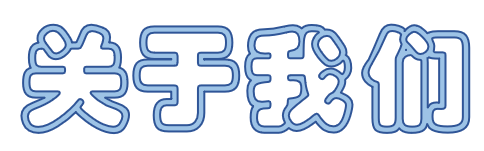
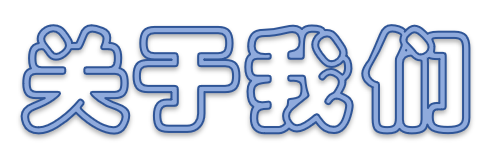
change color

Changed region(s): [[0.031, 0.1589, 0.9917, 0.9272]]

diff --git a/src/page/Recent.js b/src/page/Recent.js
@@ -1,7 +1,7 @@
 import React from "react";
 import { Link } from 'react-router-dom';
 import {Box,Stack,HStack,Text,List,ListItem,ListIcon, Highlight } from '@chakra-ui/react'
-import { AiFillTool,AiFillTags,AiFillCarryOut} from "react-icons/ai";
+import { AiFillTool,AiFillTags,AiFillCarryOut,AiFillBulb} from "react-icons/ai";
 // import Requirement from './Requirement'
 
 
@@ -21,14 +21,14 @@ import { AiFillTool,AiFillTags,AiFillCarryOut} from "react-icons/ai";
               <img src='rainbow.png' alt='rainbow'/>
             </Box> */}
           </HStack>
-          <Box  w='80%' h='max-content' p="5%"  bg='rgba(255,255,255,0.3)'  borderRadius='xl' boxShadow='lg'>
+          <Box  w='80%' h='max-content' p="5%"  bg='rgba(255,255,255,0.5)'  borderRadius='xl' boxShadow='lg'>
              {/*预留*/}
              <List class="class-bo" spacing={2}  textAlign='left' position='relative'  fontSize='2xl' lineHeight='taller' >
                   <ListItem>
-                    <ListIcon as={AiFillTool} color='blue.500' />
+                    <ListIcon as={AiFillTool} color='purple.600' />
                       <Highlight
                         query='VSC extension'
-                        styles={{ px: '2', py: '1', rounded: 'full', bg: 'rgba(164,203,236,0.5)' ,color:'black'}}>
+                        styles={{ px: '2', py: '1', rounded: 'full', bg: 'rgb(171, 130 ,255,0.2)' ,color:'black'}}>
                         VSC extension
                       </Highlight>
                       <Text  fontSize='initial' w='80%' ml='5%' fontFamily='-moz-initial' lineHeight='taller' style={{textIndent:"2em"}}>
@@ -38,10 +38,10 @@ import { AiFillTool,AiFillTags,AiFillCarryOut} from "react-icons/ai";
                   </ListItem>
                   
                   <ListItem>
-                    <ListIcon as={AiFillCarryOut} color='blue.500' />
+                    <ListIcon as={AiFillCarryOut} color='purple.600' />
                       <Highlight
                         query='服务稳定性提升'
-                        styles={{ px: '2', py: '1', rounded: 'full', bg: 'rgba(164,203,236,0.5)' ,color:'black'}}>
+                        styles={{ px: '2', py: '1', rounded: 'full', bg: 'rgb(171, 130 ,255,0.2)' ,color:'black'}}>
                         服务稳定性提升
                       </Highlight>
                       <Text  fontSize='initial' w='80%'ml='5%' fontFamily='-moz-initial' lineHeight='taller' style={{textIndent:"2em"}}>
@@ -52,10 +52,10 @@ import { AiFillTool,AiFillTags,AiFillCarryOut} from "react-icons/ai";
                   </ListItem>
                   
                   <ListItem>
-                    <ListIcon as={AiFillTags} color='blue.500' />
+                    <ListIcon as={AiFillTags} color='purple.600' />
                       <Highlight
                         query='新前端'
-                        styles={{ px: '2', py: '1', rounded: 'full', bg: 'rgba(164,203,236,0.5)' ,color:'black'}}>
+                        styles={{ px: '2', py: '1', rounded: 'full', bg: 'rgb(171, 130 ,255,0.2)' ,color:'black'}}>
                         新前端
                       </Highlight>
                       <Text  fontSize='initial' w='80%'ml='5%' fontFamily='-moz-initial' lineHeight='taller' style={{textIndent:"2em"}}>
@@ -66,10 +66,10 @@ import { AiFillTool,AiFillTags,AiFillCarryOut} from "react-icons/ai";
                   </ListItem>
                   
                   <ListItem>
-                  <ListIcon as={AiFillTags} color='blue.500' />
+                  <ListIcon as={AiFillBulb} color='purple.600' />
                       <Highlight
                         query='服务端静态化重构'
-                        styles={{ px: '2', py: '1', rounded: 'full', bg: 'rgba(164,203,236,0.5)' ,color:'black'}}>
+                        styles={{ px: '2', py: '1', rounded: 'full', bg: 'rgb(171, 130 ,255,0.2)' ,color:'black'}}>
                         服务端静态化重构
                       </Highlight>
                       <Text  fontSize='initial' w='80%' ml='5%' fontFamily='-moz-initial' lineHeight='taller' style={{textIndent:"2em"}}>

diff --git a/src/page/Requirement.js b/src/page/Requirement.js
@@ -13,7 +13,7 @@ export default function Requirement(){
                     <img src='requirement.png' alt='requirement heading'/>
                 </Box>
                 <Box w='80%' mr='15%' >
-                    <Tabs  isFitted h='full' size='lg' bg='rgb(255,255,255,0.3)'  borderRadius='2xl' boxShadow='lg'>
+                    <Tabs  isFitted h='full' size='lg' bg='rgb(255,255,255,0.5)'  borderRadius='2xl' boxShadow='lg'>
                         <TabList>
                             <Tab>产品</Tab>
                             <Tab>设计</Tab>
@@ -25,7 +25,7 @@ export default function Requirement(){
                             <TabPanel>
                                 <HStack h='700px' pt='-5%'>    
                                     <Text  fontSize='l' w='40%'h='700px'  p='5%' fontFamily='-moz-initial' textAlign='justify' lineHeight='taller' >
-                                        <Heading fontSize='3xl' textAlign='left' pb='10' color='blue.500'>岗位描述</Heading>
+                                        <Heading fontSize='3xl' textAlign='left' pb='10' color='rgb(144,146,220)'>岗位描述</Heading>
                                         <ol>
                                             <li>负责 Matrix 团队已有产品的调研、分析和优化。</li>
                                             <li>负责 Matrix 团队新产品或新模块的规划，挖掘用户需求，产出需求池、功能结构图、流程图、低保真原型图、PRD 和验收文档。</li>
@@ -38,19 +38,18 @@ export default function Requirement(){
                                     </Center>
                                     
                                     <Text  fontSize='l' w='60%'h='700px'  p='5%' fontFamily='-moz-initial' textAlign='justify' lineHeight='taller' >
-                                        <Heading fontSize='3xl' textAlign='left' pb='10' color='blue.500'>招新要求</Heading>
+                                        <Heading fontSize='3xl' textAlign='left' pb='10' color='rgb(144,146,220)'>招新要求</Heading>
                                         <ol>
-                                            <li>仅限20、21级同学。</li>
                                             <li>了解互联网产品经理的职责和定位，对 Matrix 的主要产品、功能和定位有了解和自己的看法。</li>
                                             <li>具备敏捷的洞察和逻辑思维能力，有把思考变为现实以满足用户需求的勇气和能力。</li>
                                             <li>工作严谨负责、有效率，注重用户体验。</li>
                                             <li>有优秀的信息检索、学习能力，能够通过快速学习获取相关知识。</li>
                                             <li>积极融入团队，及时跟进推进工作，快速与团队成员建立起良好的沟通，保证工作的完成。</li>
                                         </ol>                    
-                                        <Heading fontSize='3xl' textAlign='left' pt='7' pb='7' color='blue.500'>
+                                        <Heading fontSize='3xl' textAlign='left' pt='7' pb='7' >
                                             <Highlight
                                             query='加分项'
-                                            styles={{ px: '2', py: '1', rounded: 'full', bg: 'rgba(164,203,236,0.5)' ,color:'blue.500'}} >
+                                            styles={{ px: '2', py: '1', rounded: 'full', bg: 'rgba(164,203,236,0.5)' ,color:'rgb(144,146,220)'}} >
                                             加分项
                                             </Highlight>   
                                         </Heading>

diff --git a/src/page/Introduction.js b/src/page/Introduction.js
@@ -5,7 +5,8 @@ import {Box,Stack,Text,HStack} from '@chakra-ui/react'
 
  export default function Introduction(){
    return (
-    <div id="introduction" w='100%' h='100%' style={{minWidth:'940px'}} >
+    <div  w='100%' h='100%' style={{minWidth:'940px'}} >
+     
       <div style={{backgroundImage: "url(intro-background.png)" ,backgroundRepeat:"no-repeat",WebkitBackgroundSize:"100%"}}>
       <HStack w='100%' h='100%' > 
         <Stack w='35%' mt='50px'>
@@ -19,19 +20,19 @@ import {Box,Stack,Text,HStack} from '@chakra-ui/react'
 
         <Stack w='60%'  >
         
-          <Box  w='40%'   ml='20%' mt='-10%'>
+          <Box  w='40%' id="introduction"  ml='25%' mt='-5%' mb='3%'>
                <img src='about-us.png' alt='about-us'/>
           </Box>
-          <Box w='90%' m='5%' bg='rgba(255,255,255,0.3)'  borderRadius='xl' boxShadow='lg'>
+          <Box w='90%' m='5%'  bg='rgba(255,255,255,0.5)'  borderRadius='xl' boxShadow='lg'>
           <Text  fontSize='initial' w='90%' p='5%' pl='10%' fontFamily='-moz-initial' lineHeight='taller'textAlign='justify' style={{textIndent:"2em"}} >
           <p>Matrix 课程系统，也就是大家程设、算法课上用到的平台，是由我们学校大二、大三的学生构成的 Matrix 实验室维护的。  </p> 
           <p>
-            可能和很多同学想的不⼀样,Matrix 课程系统的开发和维护几乎全是由学生完成的。
+            可能和很多同学想的不⼀样，Matrix 课程系统的开发和维护几乎全是由学生完成的。
             和⼀般的科研实验室不同，比起探索未知，我们更注重对现有知识的应用。
             如何使用几台商业服务器和网络设备支撑 Matrix 考试的流量？
-            如何使永用 Web 知识打造⼀个已用过的网页程序？
+            如何使运用 Web 知识打造⼀个易用的网页程序？
             如何解决用户等待评测结果时间太长的问题？
-            课堂里或许只能让你知道几个概念，几个定义，几在这里⼀切都是真枪实弹。 
+            课堂里或许只能让你知道几个概念，几个定义，而在这里⼀切都是真枪实弹。 
           </p>
           <p>
             在这里，你可以和成功保研（甚至是免试保研）的学长学姐进行交流，收获学习经验；

diff --git a/src/page/Bottom.js b/src/page/Bottom.js
@@ -12,16 +12,23 @@ export default function Bottom() {
             </Box>
             <Box w='90%' mt='8%' mb='5%'  ml='5%' mr='5%' bg='rgb(255,255,255,0.1)' borderRadius='xl' boxShadow='xl'  >
               
-              <Text fontSize='2xl' w='90%'  mt='13%' p='5%' pl='8%' fontFamily='-moz-initial' lineHeight='taller' textAlign='justify' color='black' style={{textIndent:"2em"}}>
-                <Highlight
-                    query='recruit@matrix.moe'
-                    styles={{ color:'blue.500'}}>
-                  
-                  Matrix 其实长期都在招新，主要面向本科大一、大二的同学们。
-                  如果你有兴趣加⼊我们，欢迎将简历（格式为 PDF ⽂件）投递至 recruit@matrix.moe，
-                  在邮件标题著名“Matrix招新简历-方向-年级-专业-姓名”，收到简历后我们会尽快回复面试通知。 Matrix期待你的加⼊！
-                  如果你有疑问，或者想和我们交流，欢迎加儒 Matrix 秋季招新交流群：878822270
-                </Highlight>
+              <Text fontSize='2xl' w='90%'  mt='13%' p='5%' pl='10%' fontFamily='-moz-initial' lineHeight='taller' textAlign='justify' color='black' style={{textIndent:"2em"}}>
+                <p>Matrix 其实长期都在招新，主要面向本科大一、大二的同学们。 </p>
+                <p>
+                  <Highlight 
+                  query='recruit@matrix.moe'
+                  styles={{color:'purple.600'}}>
+                  如果你有兴趣加入我们，欢迎将简历（格式为 PDF 文件）投递至 recruit@matrix.moe，
+                  在邮件标题注名“Matrix招新简历-方向-年级-专业-姓名”，收到简历后我们会尽快回复面试通知。 Matrix期待你的加入！
+                  </Highlight>
+                </p>
+                <p> 
+                  <Highlight 
+                  query='878822270'
+                  styles={{color:'purple.600'}}>
+                  如果你有疑问，或者想和我们交流，欢迎加入 Matrix 秋季招新交流群：878822270
+                  </Highlight>
+                </p> 
               </Text>
             </Box>
                  

diff --git a/src/page/Title.js b/src/page/Title.js
@@ -31,7 +31,7 @@ import { FiCornerDownRight,FiSend } from "react-icons/fi"
 
                            <ListItem>
                               <ListIcon as={FiSend} color='blue.500' />
-                              亲自把奇思妙想的idea变成现实
+                              亲自把奇思妙想的 idea 变成现实
                            </ListItem>
 
                            <ListItem>
@@ -41,7 +41,7 @@ import { FiCornerDownRight,FiSend } from "react-icons/fi"
                   
                            <ListItem>
                               <ListIcon as={FiCornerDownRight} color='blue.500' />
-                              那就不妨来Matrix试试吧~
+                              那就不妨来 Matrix 试试吧~
                            </ListItem>
                         </List>
 

diff --git a/src/page/Welfare.js b/src/page/Welfare.js
@@ -21,7 +21,7 @@ export default function Welfare(){
                         <img src='welfareT1.png' alt='充实假期' />
                     </Box>
                     <Text  fontSize='xl' w='90%'  mt='6%' pl='5%' fontFamily='-moz-initial' textAlign='justify' lineHeight='taller' style={{textIndent:"2em"}} >
-                           <p> 参与我们寒暑假的线上开发,也能享受50+公益时和实验室补贴，学习开发两不误。</p>
+                           <p> 参与我们寒暑假的线上开发，也能享受50+公益时和其他福利，学习开发两不误。</p>
                            <p><br/><br/><br/></p>
                     </Text>
                 </Stack>
